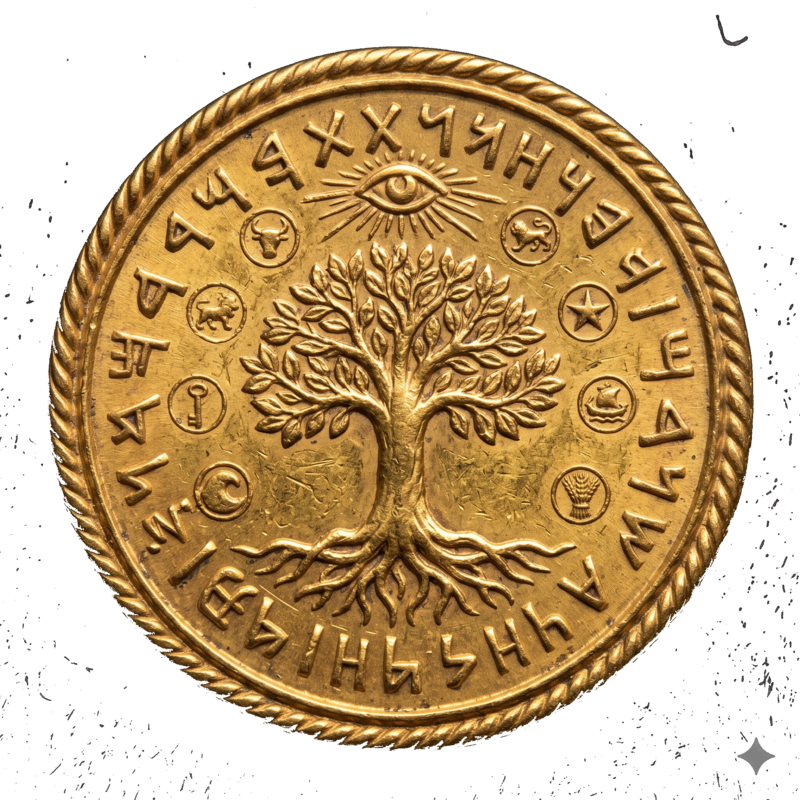
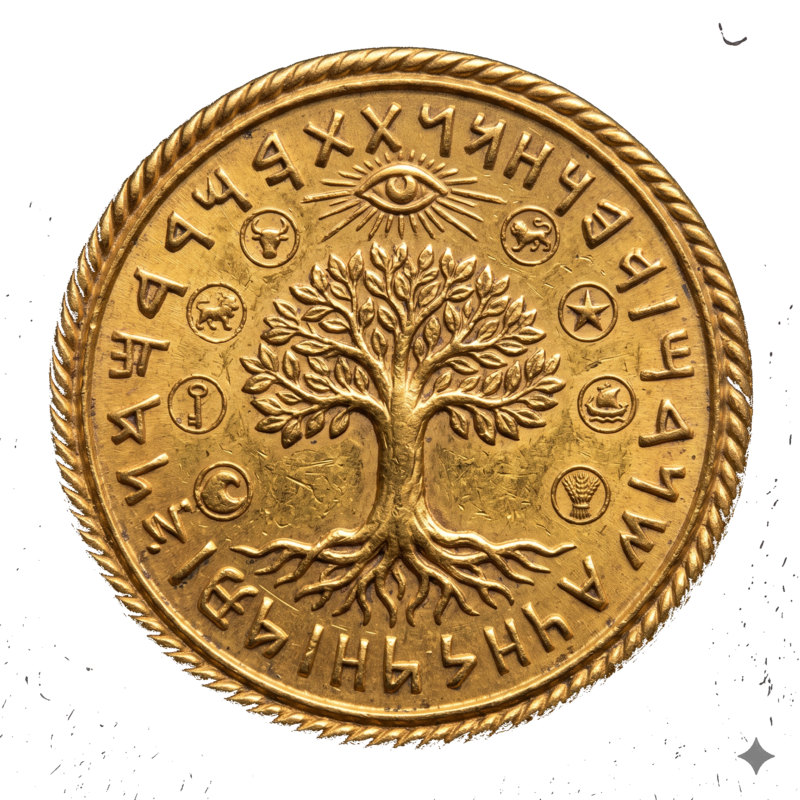
fix: yazı/tura — 3D CSS tamamen kaldırıldı, scaleX swap yaklaşımı
- preserve-3d + filter kombinasyonu kalıcı olarak silindi
- Tek görsel elementi: animasyon %75'inde (scaleX≈0) JS ile src değişir
- coin-toss keyframe: scaleX flip, görsel anında değişir, fark edilmez
- Arka plan: 8 noktadan flood fill ile silindi
- filter:drop-shadow artık güvenli (3D context yok)

diff --git a/src/app/[lang]/yazi-tura/page.tsx b/src/app/[lang]/yazi-tura/page.tsx
@@ -8,65 +8,52 @@ import ResetConfirm from "@/components/ResetConfirm";
 
 type Side = "heads" | "tails";
 
-function CoinFace({ side }: { side: Side }) {
-  return (
-    <div
-      className="absolute inset-0"
-      style={{
-        backfaceVisibility: "hidden",
-        WebkitBackfaceVisibility: "hidden",
-        transform: side === "tails" ? "rotateY(180deg)" : undefined,
-        /* shadow burada güvenli — kendi yüzüne ait */
-        filter: "drop-shadow(0 16px 32px rgba(234,179,8,0.35))",
-      }}
-    >
-      <Image
-        src={side === "heads" ? "/images/coin-h.png" : "/images/coin-t.png"}
-        alt={side}
-        fill
-        className="object-contain"
-        priority
-      />
-    </div>
-  );
-}
+const TOTAL_MS  = 1200;
+const SWAP_MS   = 900; // %75 — scaleX sıfıra yakın olduğu an
 
 export default function YaziTuraPage() {
   const d = useDict();
   const [counts, setCounts, clearCounts] = useLocalStorage<Record<Side, number>>(
     "rastla_coin_counts", { heads: 0, tails: 0 }
   );
-  const [result, setResult] = useState<Side | null>(null);
-  const [pending, setPending] = useState<Side | null>(null);
-  const [flipping, setFlipping] = useState(false);
-  const [animKey, setAnimKey] = useState(0);
-  const [showReset, setShowReset] = useState(false);
+
+  const [result,      setResult]      = useState<Side | null>(null);
+  const [visibleSide, setVisibleSide] = useState<Side>("heads");
+  const [flipping,    setFlipping]    = useState(false);
+  const [animKey,     setAnimKey]     = useState(0);
+  const [showReset,   setShowReset]   = useState(false);
 
   const total = counts.heads + counts.tails;
 
   const flip = () => {
     if (flipping) return;
     const landed: Side = Math.random() < 0.5 ? "heads" : "tails";
-    setPending(landed);
+
     setFlipping(true);
     setAnimKey((k) => k + 1);
+
+    // Görsel, animasyonun %75'inde (scaleX ≈ 0) değişir — fark edilmez
+    setTimeout(() => setVisibleSide(landed), SWAP_MS);
+
     setTimeout(() => {
       setResult(landed);
       setCounts((c) => ({ ...c, [landed]: c[landed] + 1 }));
       setFlipping(false);
-    }, 1100);
+    }, TOTAL_MS);
   };
 
   const handleReset = () => {
-    clearCounts(); setResult(null); setPending(null); setShowReset(false);
+    clearCounts();
+    setResult(null);
+    setVisibleSide("heads");
+    setShowReset(false);
   };
 
-  const animName = pending === "tails" ? "coin-flip-tura" : "coin-flip-yazi";
-  const staticTransform = !flipping && result === "tails" ? "rotateY(180deg)" : "rotateY(0deg)";
   const resultLabel = result === "heads" ? d.coin.heads : result === "tails" ? d.coin.tails : null;
 
   return (
     <div className="p-5 pt-8">
+
       {/* Header */}
       <div className="relative mb-8">
         <div className="absolute -top-4 left-0 w-48 h-48 bg-yellow-400/10 rounded-full blur-3xl pointer-events-none" />
@@ -87,42 +74,40 @@ export default function YaziTuraPage() {
         </div>
       </div>
 
-      {/* Coin */}
-      <div className="flex justify-center" style={{ perspective: "800px" }}>
-        <div className="relative">
-          {/* Glow under coin */}
+      {/* Coin — tek görsel, JS swap ile yüz değişimi */}
+      <div className="flex justify-center">
+        <div className="relative" style={{ width: 220, height: 220 }}>
+          {/* Glow halo — 3D container dışında, safe */}
           <div
-            className="absolute -bottom-4 left-1/2 -translate-x-1/2 w-40 h-8 rounded-full blur-xl transition-opacity duration-300"
+            className="absolute inset-0 rounded-full pointer-events-none transition-opacity duration-300"
             style={{
-              background: "radial-gradient(ellipse, rgba(234,179,8,0.5) 0%, transparent 70%)",
-              opacity: flipping ? 0.8 : 0.4,
+              boxShadow: `0 0 60px rgba(234,179,8,${flipping ? "0.45" : "0.2"})`,
             }}
           />
-
-          {/* 3D coin container — filter burada OLMAMALI, preserve-3d'yi ezer */}
           <div
             key={animKey}
             style={{
               width: 220,
               height: 220,
               position: "relative",
-              transformStyle: "preserve-3d",
-              animation: flipping
-                ? `${animName} 1.1s cubic-bezier(0.4,0,0.2,1) forwards`
-                : "none",
-              transform: flipping ? undefined : staticTransform,
-              transition: flipping ? "none" : "transform 0.4s ease",
+              animation: flipping ? `coin-toss ${TOTAL_MS}ms ease-in-out forwards` : "none",
+              filter: "drop-shadow(0 16px 28px rgba(180,83,9,0.5))",
             }}
           >
-            <CoinFace side="heads" />
-            <CoinFace side="tails" />
+            <Image
+              src={`/images/coin-${visibleSide === "heads" ? "h" : "t"}.png`}
+              alt={visibleSide}
+              fill
+              className="object-contain"
+              priority
+            />
           </div>
         </div>
       </div>
 
       {/* Result label */}
-      <div className="mt-6 text-center min-h-8">
-        {!flipping && resultLabel && (
+      <div className="mt-5 text-center min-h-8">
+        {!flipping && resultLabel ? (
           <div className="animate-slide-up">
             <div className="text-white/35 text-[10px] uppercase tracking-[0.2em] mb-0.5">
               {d.coin.resultLabel}
@@ -131,10 +116,9 @@ export default function YaziTuraPage() {
               {resultLabel}
             </div>
           </div>
-        )}
-        {flipping && (
+        ) : flipping ? (
           <div className="text-white/30 text-sm animate-pulse-scale">{d.coin.flipping}</div>
-        )}
+        ) : null}
       </div>
 
       {/* Flip button */}
@@ -154,30 +138,22 @@ export default function YaziTuraPage() {
       {total > 0 && (
         <div
           className="mt-6 rounded-2xl p-4"
-          style={{
-            background: "rgba(255,255,255,0.03)",
-            border: "1px solid rgba(255,255,255,0.07)",
-          }}
+          style={{ background: "rgba(255,255,255,0.03)", border: "1px solid rgba(255,255,255,0.07)" }}
         >
           <div className="text-[10px] text-white/25 uppercase tracking-[0.15em] mb-4">
             {d.coin.statsLabel} — {total} {d.coin.flipsUnit}
           </div>
+
           <div className="flex gap-3 mb-4">
             {(["heads", "tails"] as const).map((side) => (
               <div
                 key={side}
-                className={`flex-1 rounded-xl p-3 text-center transition-all overflow-hidden relative ${
-                  result === side
-                    ? "border border-yellow-400/25"
-                    : "border border-white/[0.05]"
-                }`}
+                className="flex-1 rounded-xl p-3 text-center transition-all"
                 style={{
-                  background: result === side
-                    ? "rgba(234,179,8,0.08)"
-                    : "rgba(255,255,255,0.03)",
+                  background: result === side ? "rgba(234,179,8,0.08)" : "rgba(255,255,255,0.03)",
+                  border: result === side ? "1px solid rgba(234,179,8,0.25)" : "1px solid rgba(255,255,255,0.05)",
                 }}
               >
-                {/* Mini coin preview */}
                 <div className="relative w-10 h-10 mx-auto mb-2">
                   <Image
                     src={`/images/coin-${side === "heads" ? "h" : "t"}.png`}
@@ -197,7 +173,6 @@ export default function YaziTuraPage() {
             ))}
           </div>
 
-          {/* Progress bar */}
           <div className="h-2 rounded-full overflow-hidden bg-white/[0.06]">
             <div
               className="h-full rounded-full transition-all duration-700"

diff --git a/src/app/globals.css b/src/app/globals.css
@@ -73,6 +73,23 @@
   50%     { transform: scale(1.04); }
 }
 
+/* Coin toss — scaleX sıfıra düşünce src swap yapılır, tekrar açılır */
+@keyframes coin-toss {
+  0%   { transform: scaleX(1)    scaleY(1); }
+  8%   { transform: scaleX(0.04) scaleY(1.03); }
+  16%  { transform: scaleX(1)    scaleY(1); }
+  25%  { transform: scaleX(0.04) scaleY(1.03); }
+  33%  { transform: scaleX(1)    scaleY(1); }
+  42%  { transform: scaleX(0.04) scaleY(1.03); }
+  50%  { transform: scaleX(1)    scaleY(1); }
+  58%  { transform: scaleX(0.04) scaleY(1.03); }
+  66%  { transform: scaleX(1)    scaleY(1); }
+  75%  { transform: scaleX(0.04) scaleY(1.03); } /* ← swap point */
+  84%  { transform: scaleX(1)    scaleY(1); }
+  93%  { transform: scaleX(0.97) scaleY(1); }
+  100% { transform: scaleX(1)    scaleY(1); }
+}
+
 .animate-bounce-in   { animation: bounce-in  0.5s cubic-bezier(0.36,0.07,0.19,0.97) both; }
 .animate-shake       { animation: shake      0.7s ease both; }
 .animate-jar-shake   { animation: jar-shake  0.6s ease infinite; }